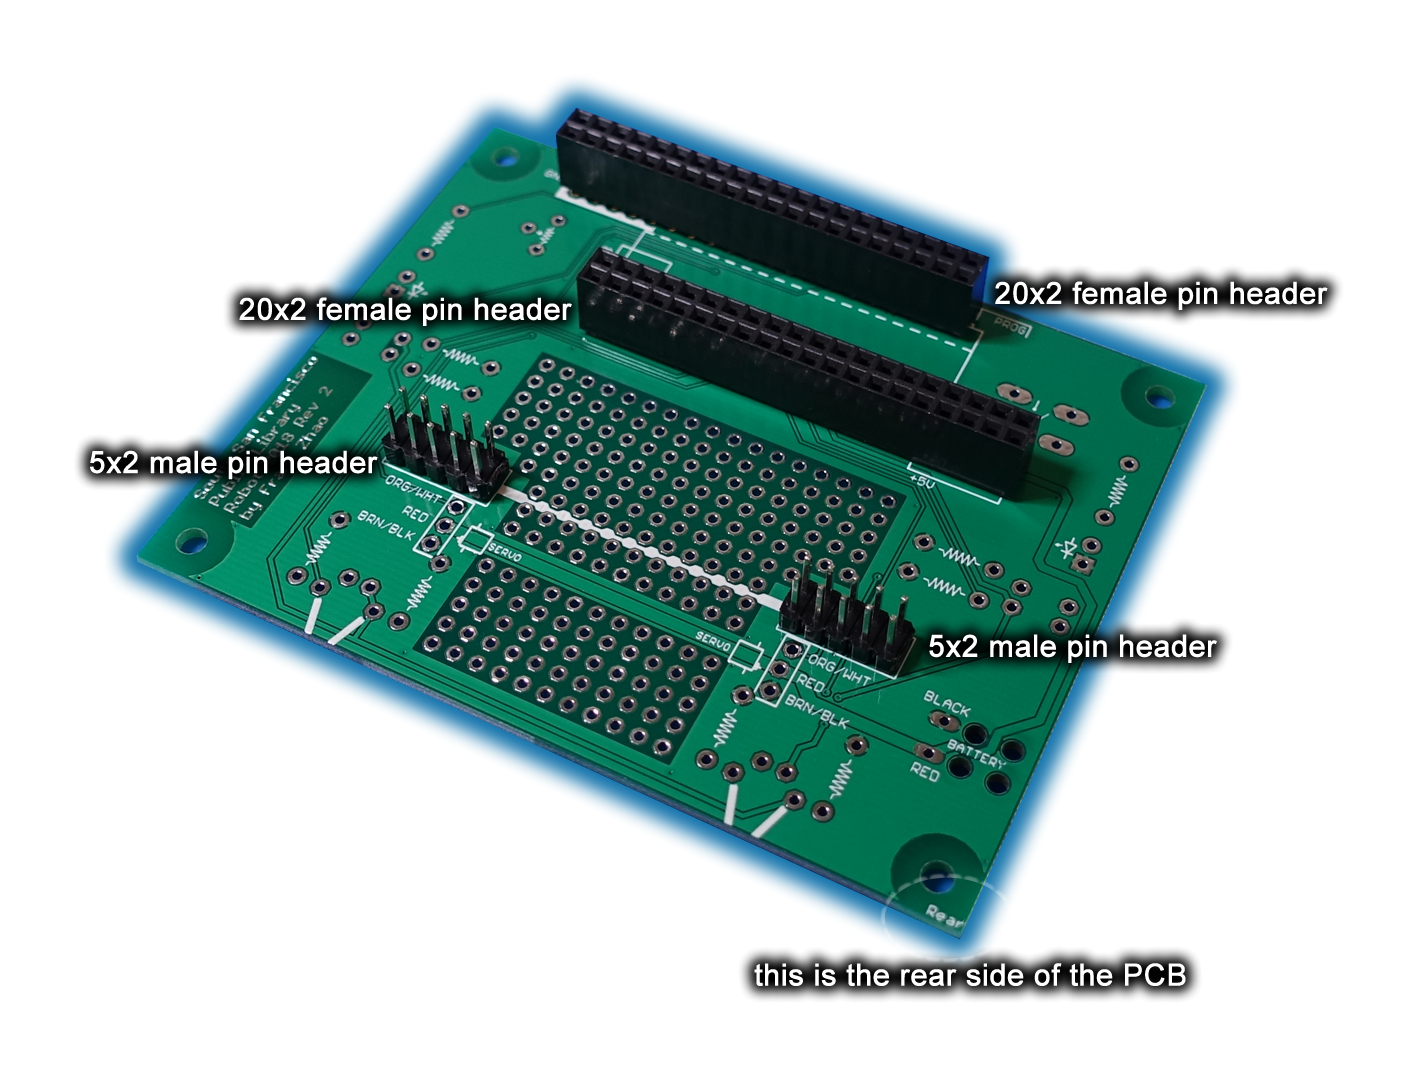
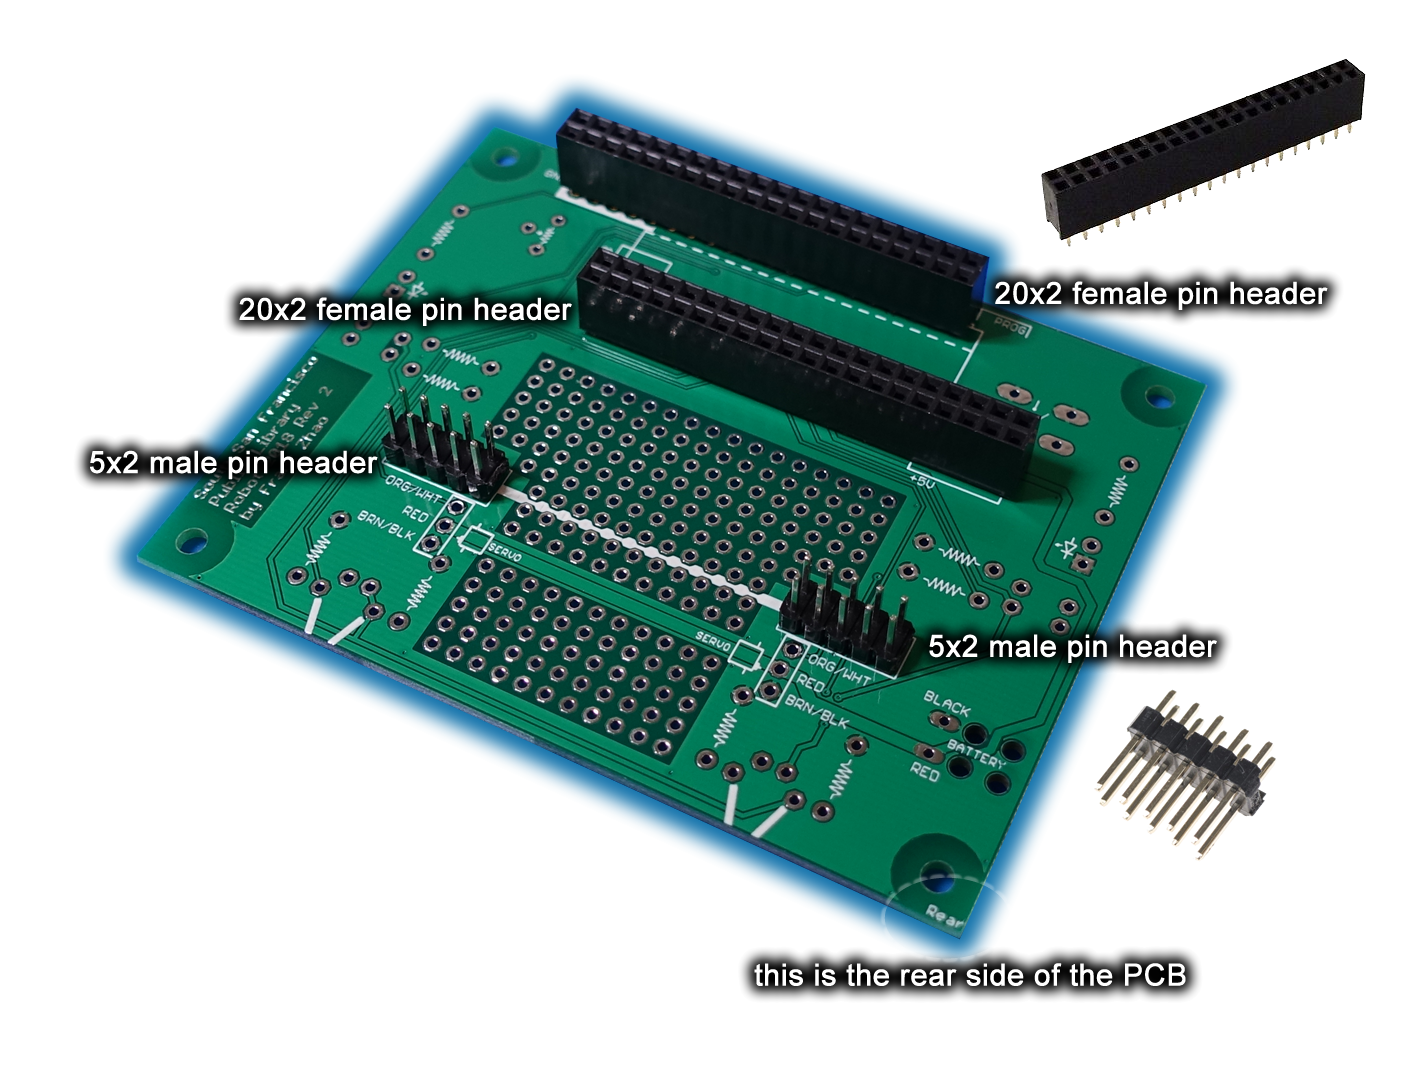
better images involving headers soldering

Changed region(s): [[0.7097, 0.0611, 0.9565, 0.2444], [0.7714, 0.6417, 0.8948, 0.7944]]

diff --git a/courseware/robotassembly.htm b/courseware/robotassembly.htm
@@ -336,8 +336,10 @@ function body_onload() {
 
 <p>Doing this first will also make it much easier to solder the Arduino Nano later.</p>
 
-<p>The 10x2 male pin header must be cut into two 5x2 male pin headers first.</p>
+<p>If you have a 10x2 male pin header, cut it into two 5x2 male pin headers first. (if you got two 5x2 male pin headers already, then you don't need to do this)</p>
 
+<div class="center_outer"><div class="center_inner"><img src="img/instruct/cutting_headers_1.jpg" /></div></div>
+<br />
 <div class="center_outer"><div class="center_inner"><a href="img/instruct/all_big_headers_placement.png"><img src="img/instruct/all_big_headers_placement.png" width="100%" /></a></div></div><br />
 <div class="center_outer"><div class="center_inner"><a href="img/instruct/push_down_big_headers.png"><img src="img/instruct/push_down_big_headers.png" width="100%" /></a></div></div>
 
@@ -345,9 +347,11 @@ function body_onload() {
 
 <div class="center_outer"><div class="center_inner"><a href="img/instruct/one_zoomed_in_solder_joint.jpg"><img src="img/instruct/one_zoomed_in_solder_joint.jpg" width="100%" /></a></div></div>
 
-<p>Then move on to soldering the two smaller 3x1 male pin headers. (if you have a 6x1 male pin header, cut it in two)</p>
+<p>Then move on to soldering the two smaller 3x1 male pin headers. If you have a 6x1 male pin header, cut it in two halves. (otherwise if you have two 3x1 male pin headers, do not cut it)</p>
 
-<div class="center_outer"><div class="center_inner"><a href="img/instruct/servo_male_headers.png"><img src="img/instruct/servo_male_headers.png" width="100%" /></a></div></div>
+<div class="center_outer"><div class="center_inner"><img src="img/instruct/cutting_headers_2.jpg" /></div></div>
+<br />
+<div class="center_outer"><div class="center_inner"><a href="img/instruct/servo_male_headers_v2.jpg"><img src="img/instruct/servo_male_headers_v2.jpg" width="100%" /></a></div></div>
 
 <p>Soldering: Arduino Nano</p>
 
